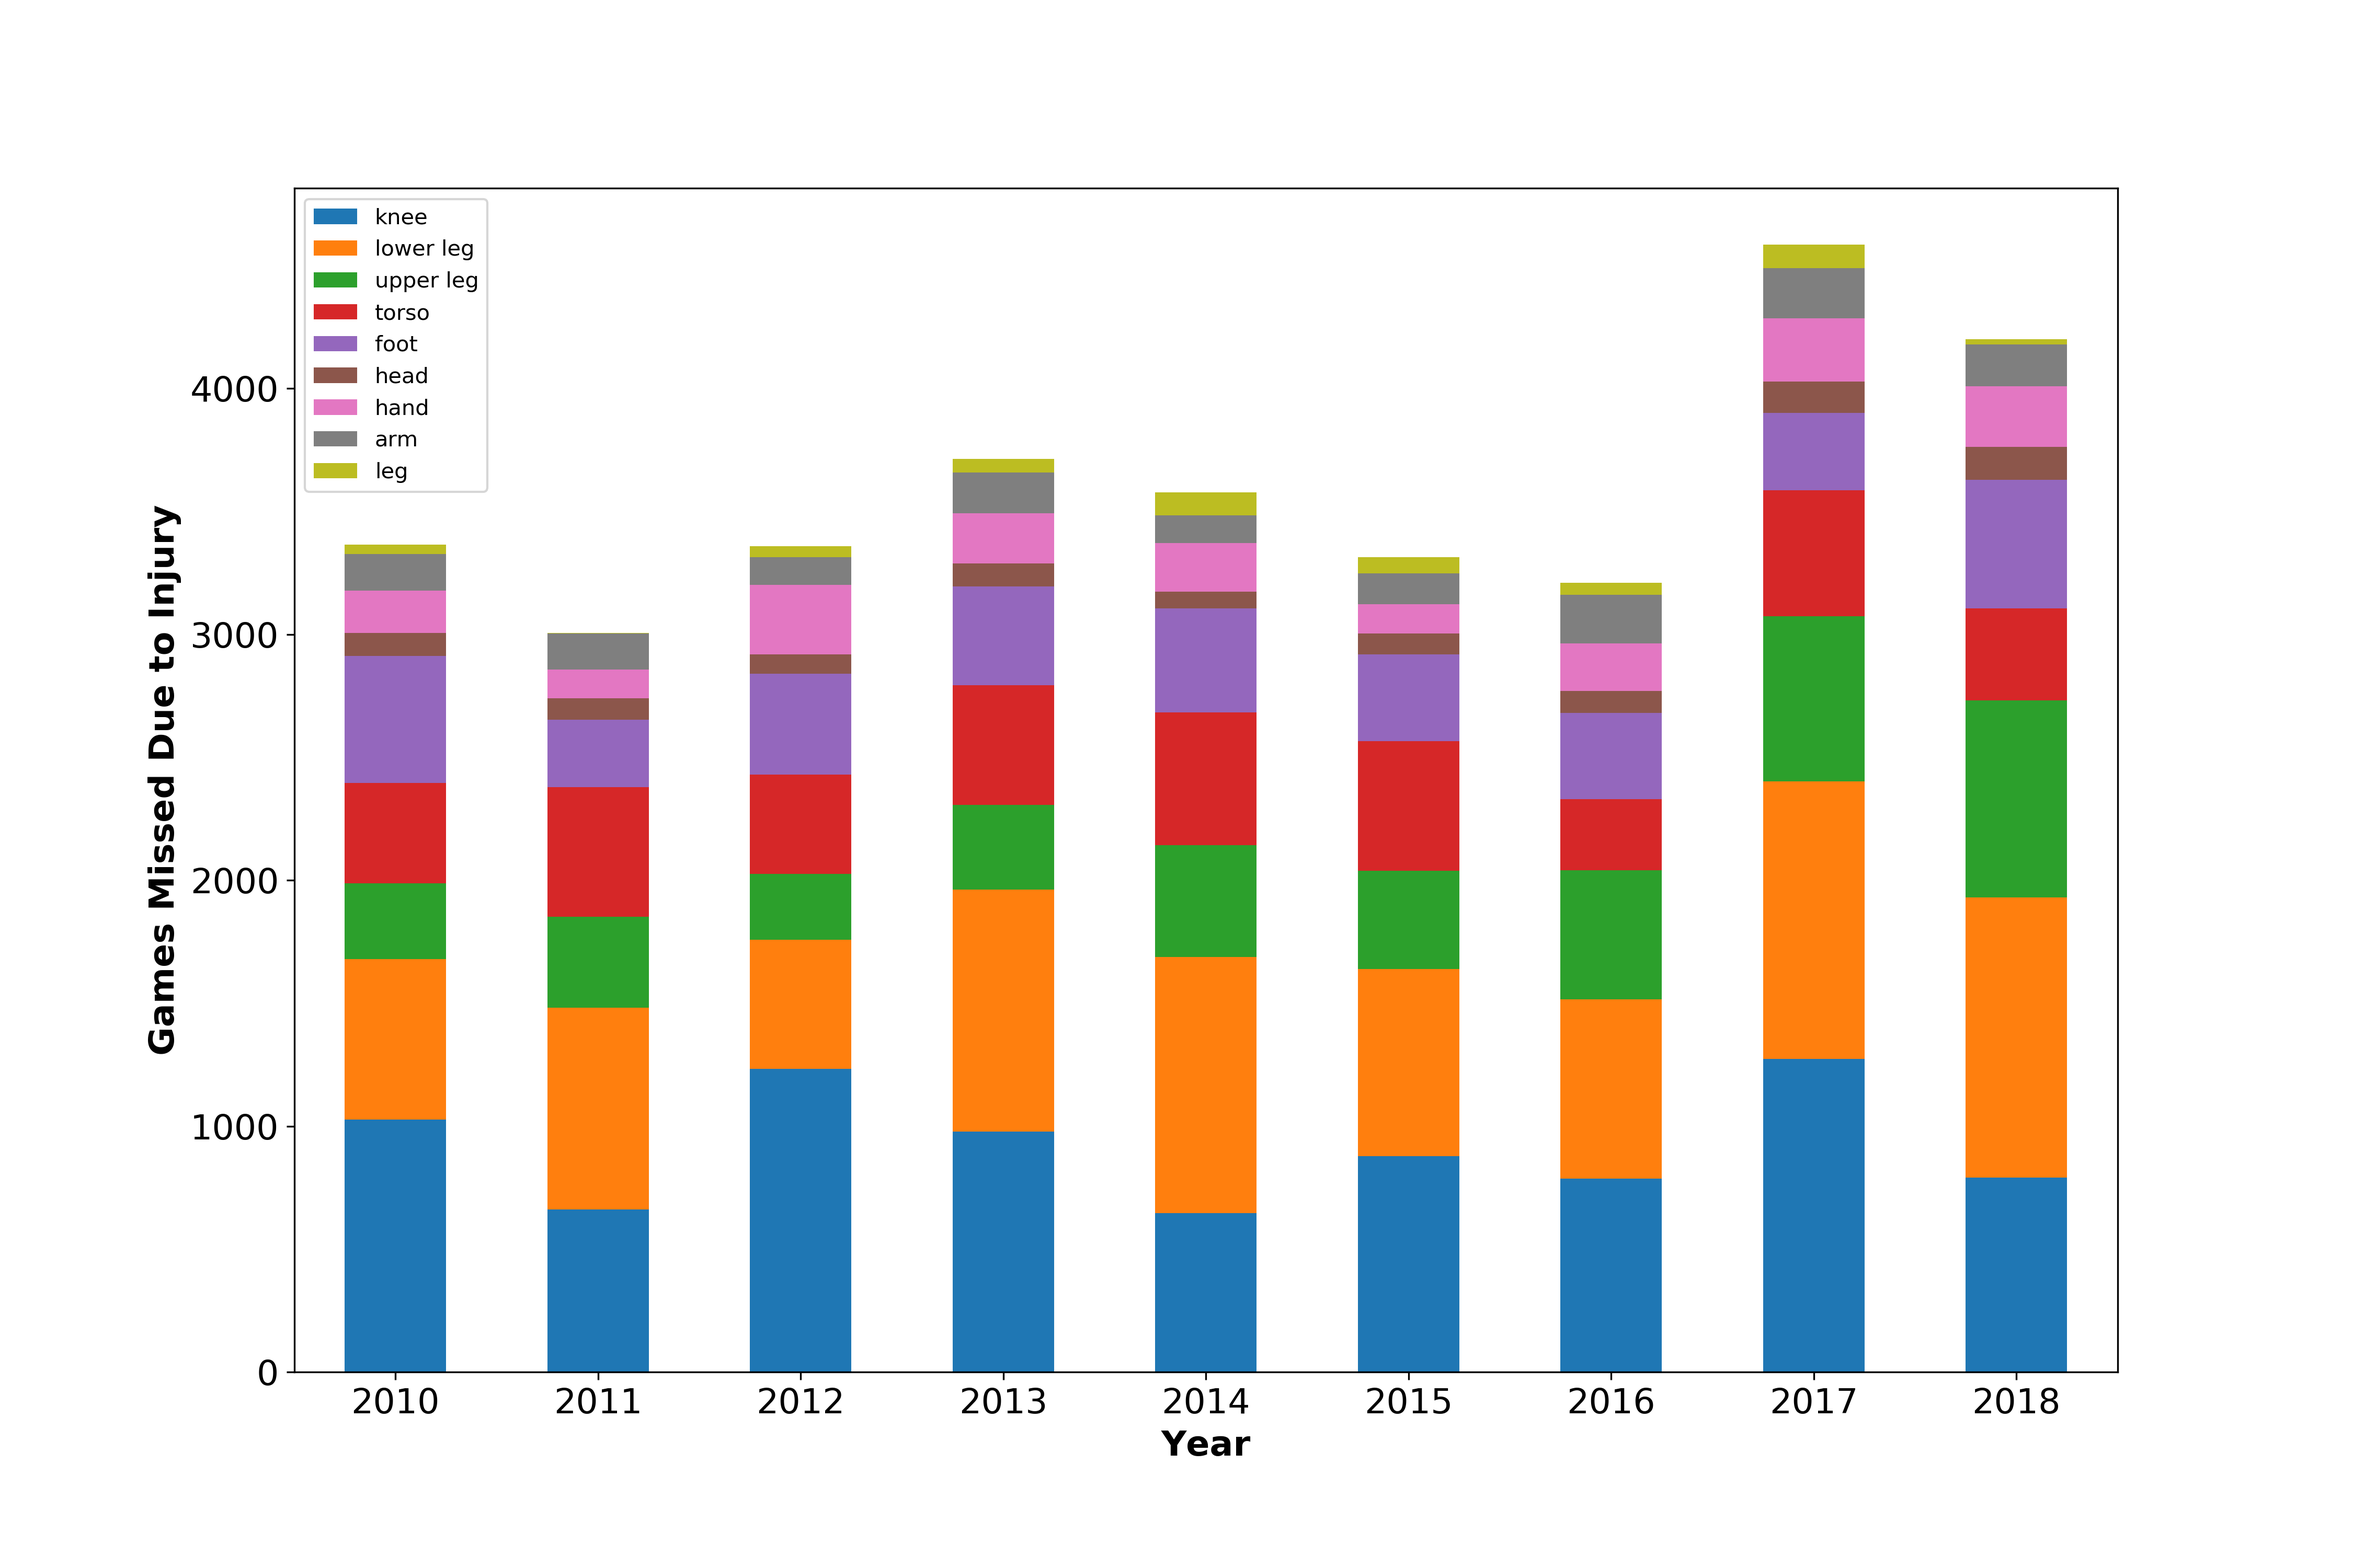
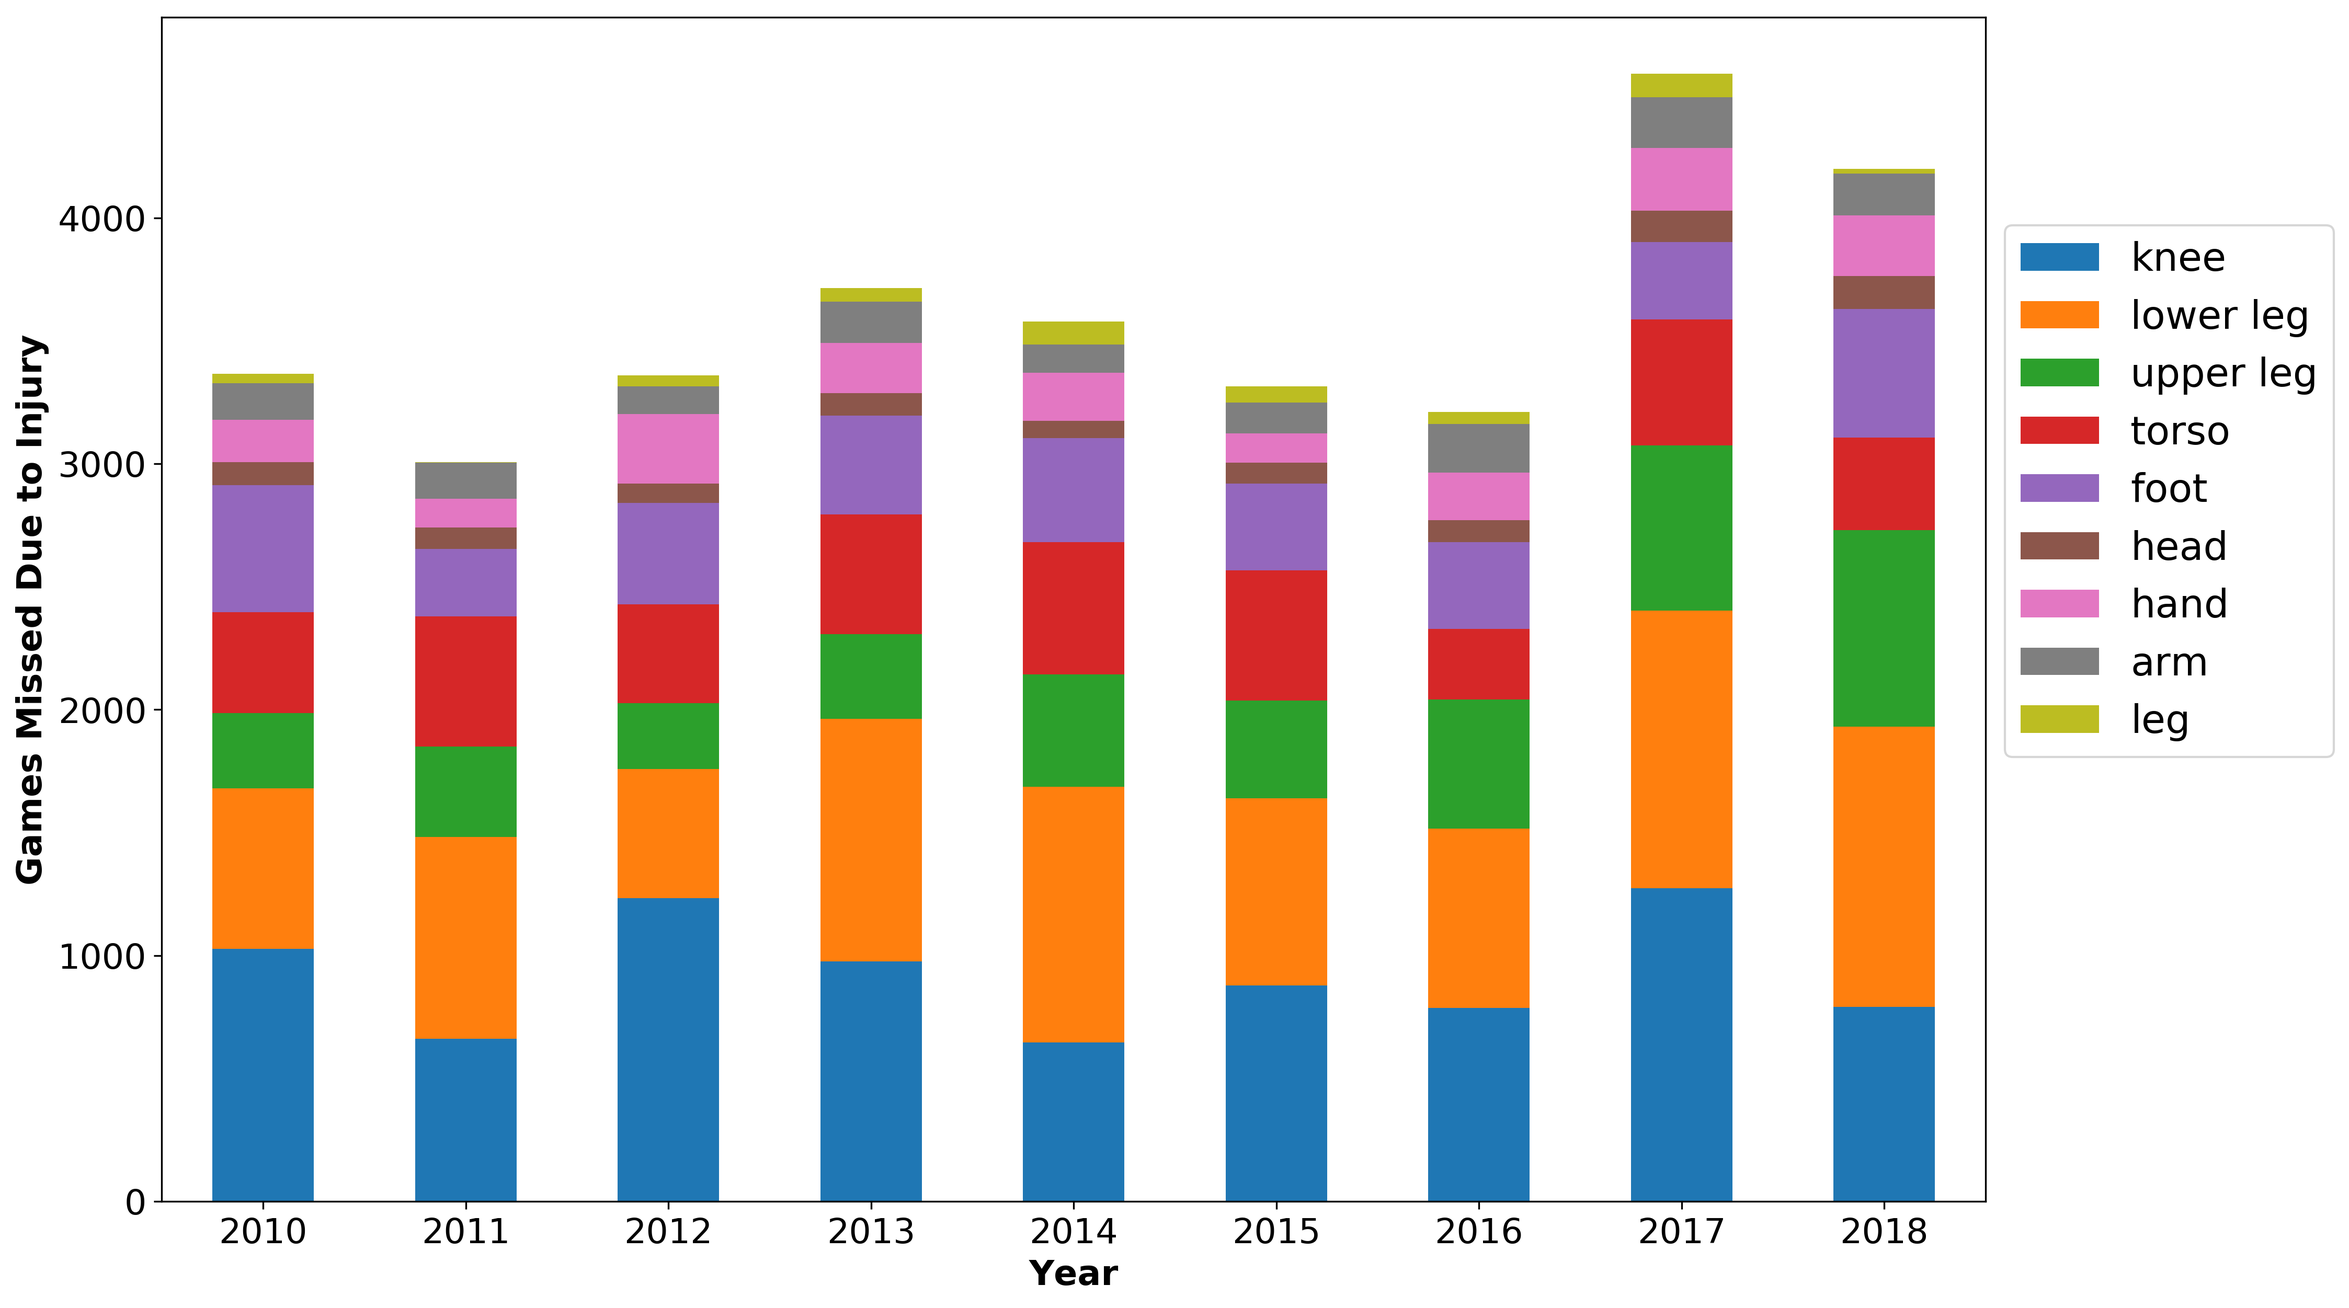
updated plot with better legend

diff --git a/src/d04_visualization/plot_stacked_bar_missed_games_all_injuries.py b/src/d04_visualization/plot_stacked_bar_missed_games_all_injuries.py
@@ -72,9 +72,7 @@ for tick in ax.get_yticks():
 ax.set_yticklabels(y_tick_labels, fontsize = 16)
 
 # Set legend properties
-ax.legend(list(data.columns), fontsize = 16)
-ax.legend(loc='best')
-
+lgd = ax.legend(loc='center left', bbox_to_anchor=(1.0, 0.6), fontsize =18)
 #----------------------Save plot---------------------------------------------
 fig = ax.get_figure()
-fig.savefig(plot_savepath, dpi = 300)
+fig.savefig(plot_savepath, dpi = 300, bbox_extra_artists=(lgd,), bbox_inches='tight')

diff --git a/src/d04_visualization/plot_stacked_bar_missed_games_serious_injuries.py b/src/d04_visualization/plot_stacked_bar_missed_games_serious_injuries.py
@@ -76,9 +76,7 @@ for tick in ax.get_yticks():
 ax.set_yticklabels(y_tick_labels, fontsize = 16)
 
 # Set legend properties
-ax.legend(list(data.columns), fontsize = 16)
-ax.legend(loc='best')
-
+lgd = ax.legend(loc='center left', bbox_to_anchor=(1.0, 0.6), fontsize =18)
 #----------------------Save plot---------------------------------------------
 fig = ax.get_figure()
-fig.savefig(plot_savepath, dpi = 300)
+fig.savefig(plot_savepath, dpi = 300, bbox_extra_artists=(lgd,), bbox_inches='tight')
